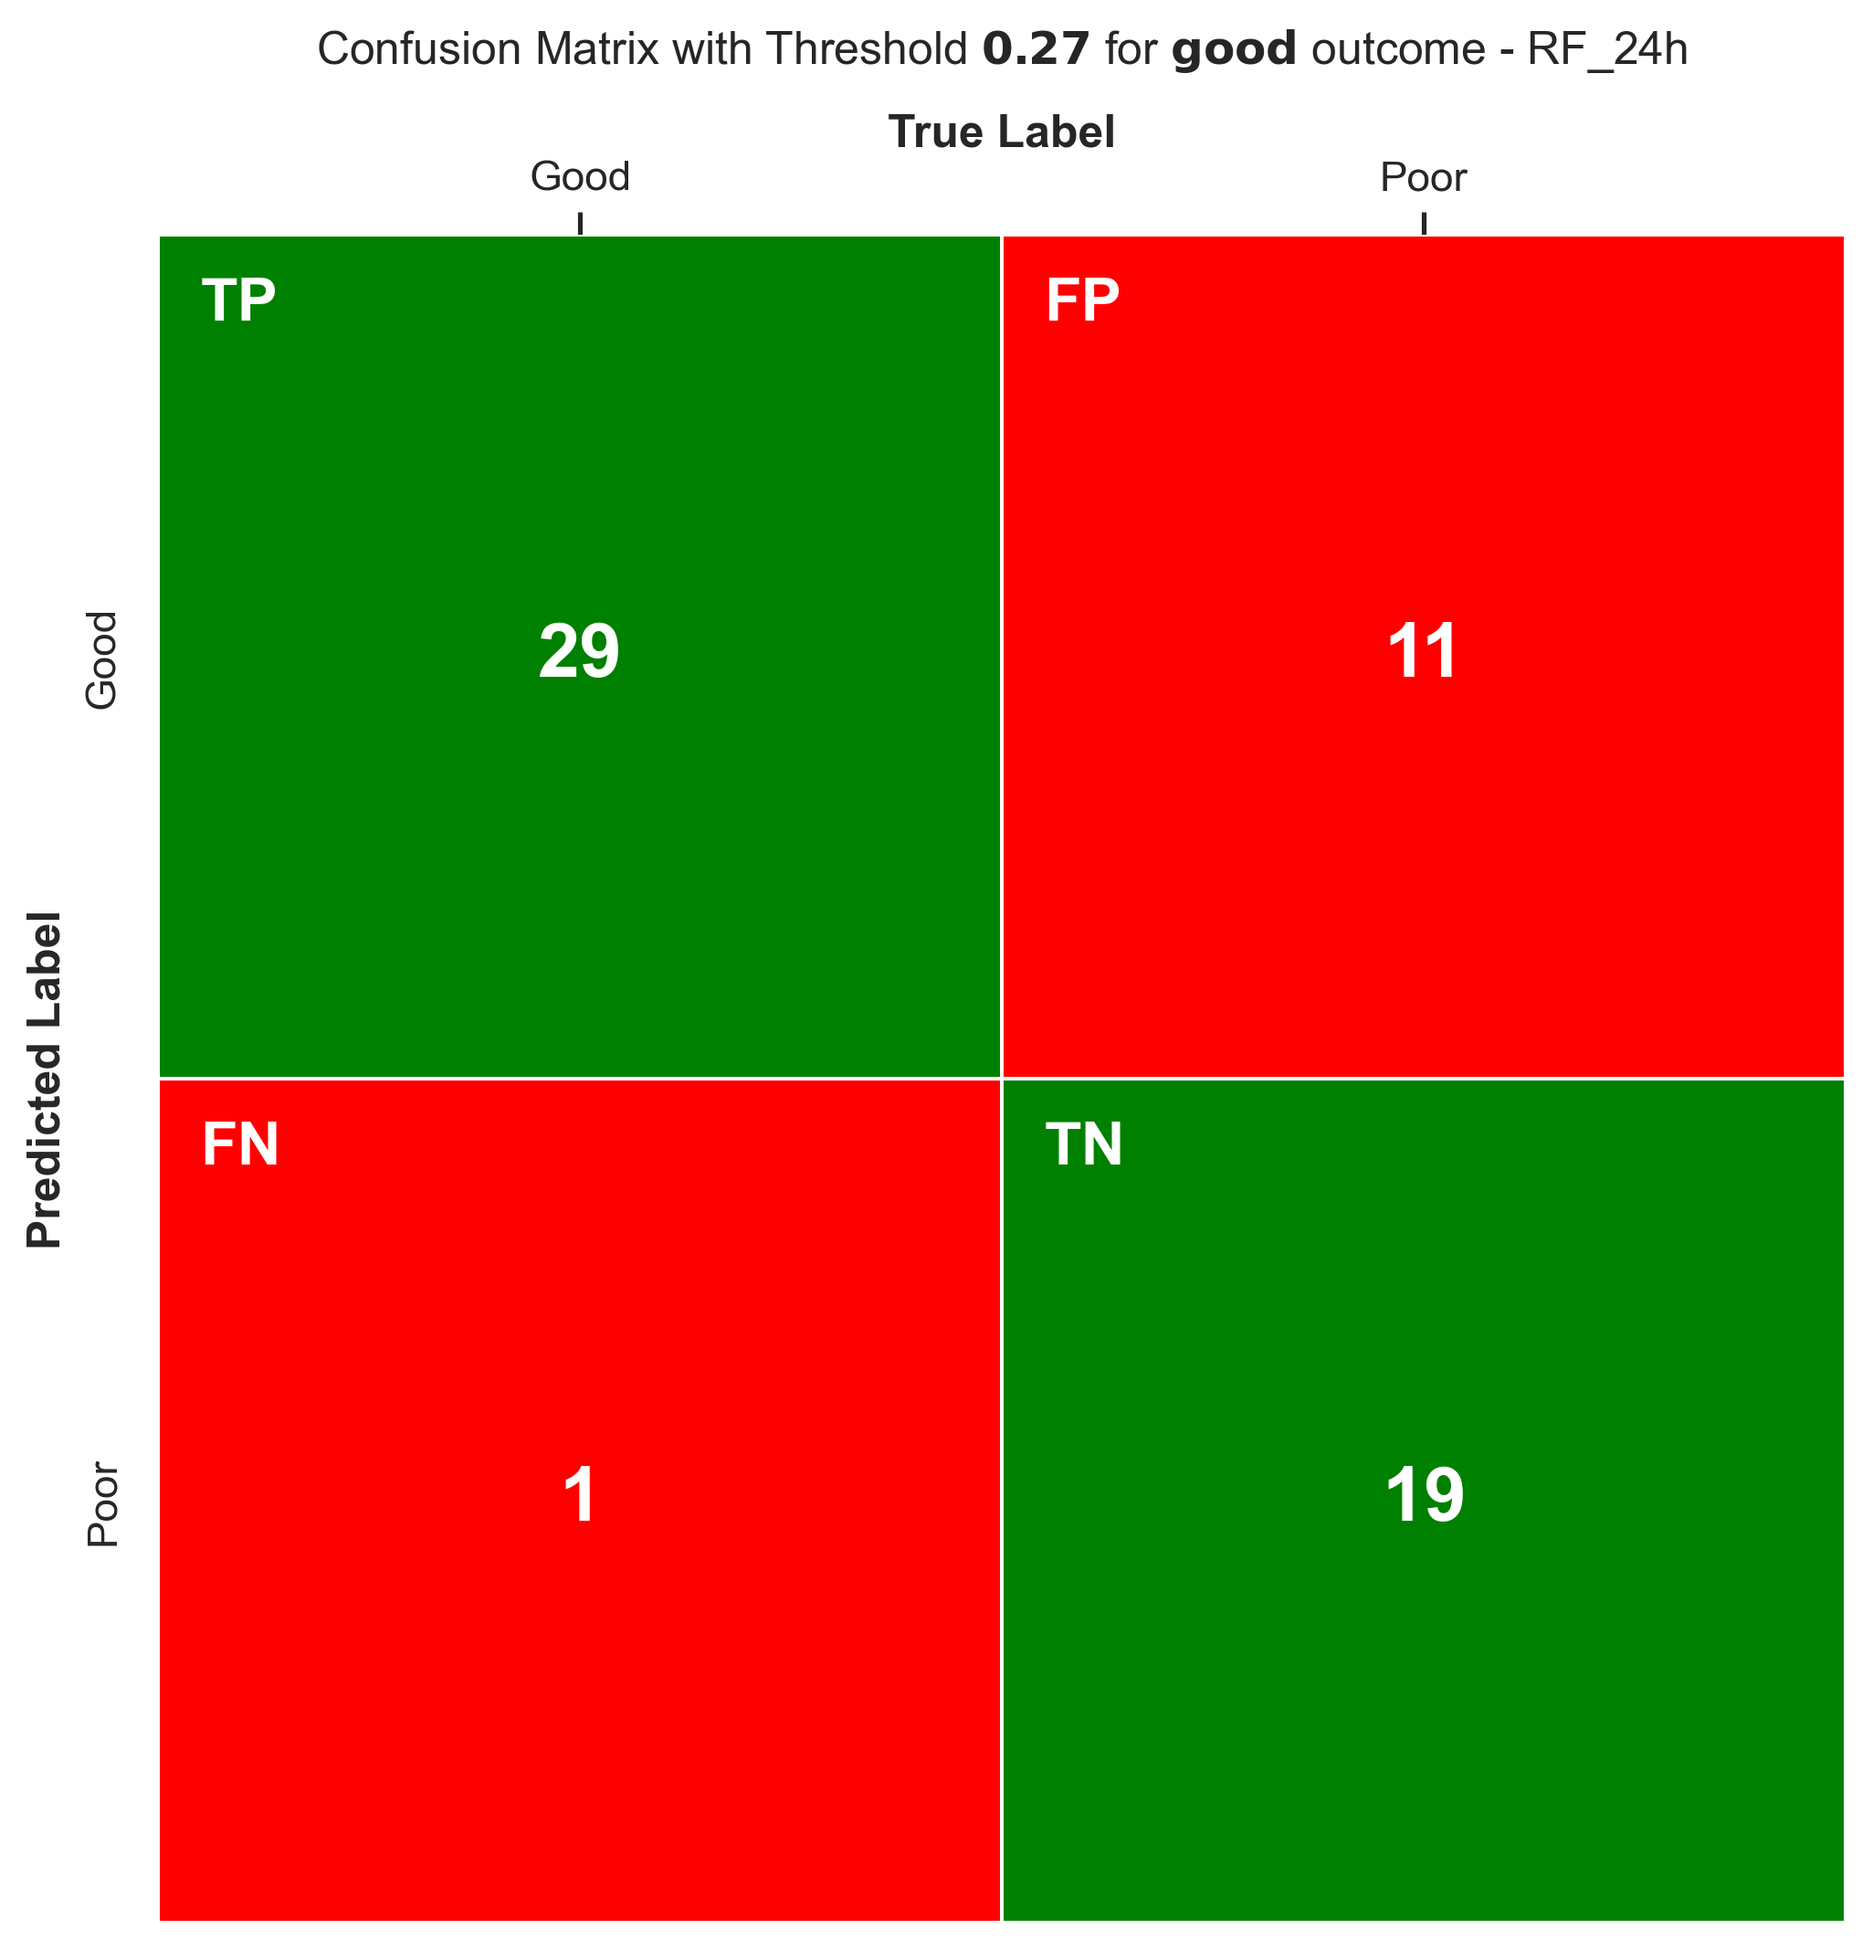
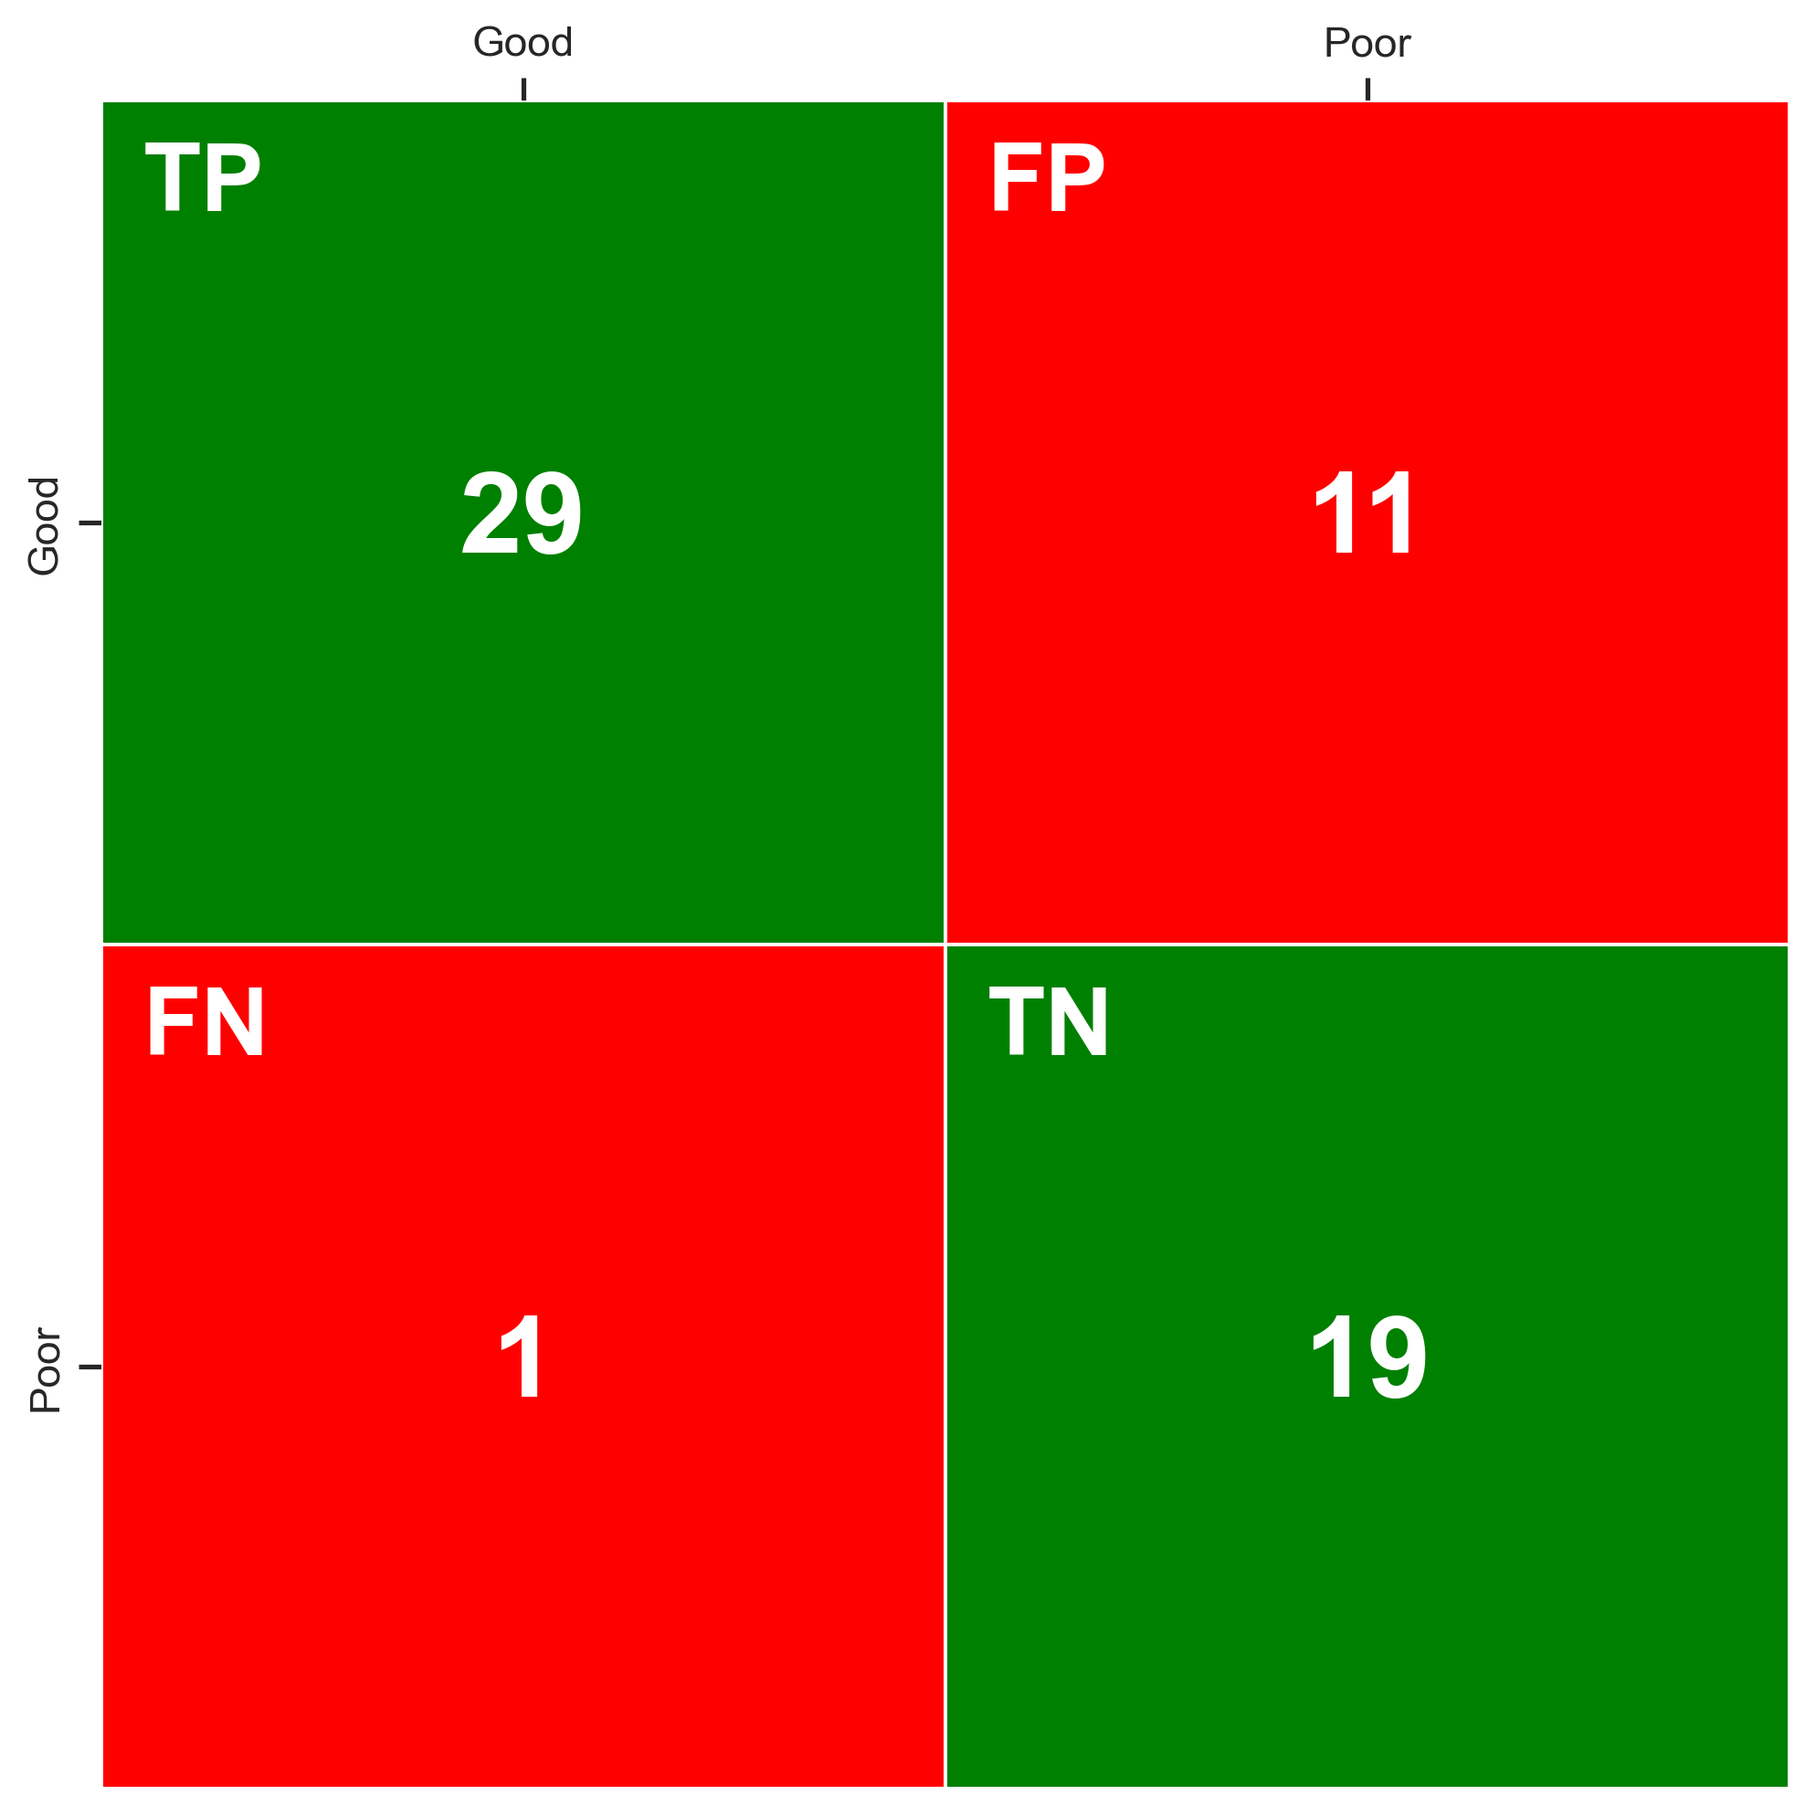
cm

diff --git a/Utils/analysis.py b/Utils/analysis.py
@@ -88,11 +88,15 @@ class Analysis:
         plt.figure(figsize=(8, 8))
         ax = sns.heatmap(color_indices, annot=cm, fmt="d", linewidths=0.5, square=True,
                         xticklabels=labels, yticklabels=labels, cbar=False,
-                        annot_kws={"size": 20, "weight": "bold"}, cmap=custom_cmap,
+                        annot_kws={"size": 30, "weight": "bold"}, cmap=custom_cmap,
                         vmin=0, vmax=len(colors)-1)
 
         ax.xaxis.set_label_position('top')
         ax.xaxis.tick_top()
+        #ax.set_xticklabels(ax.get_xticklabels(), rotation=0, ha='center', va='top', fontsize=12, fontweight='bold')
+        ax.yaxis.set_label_position('left')
+        ax.yaxis.tick_left()
+        #ax.set_yticklabels(ax.get_yticklabels(), rotation=0, ha='right', va='center', fontsize=12, fontweight='bold')
 
         for i in range(cm.shape[0]):
                     for j in range(cm.shape[1]):
@@ -100,13 +104,13 @@ class Analysis:
                                 ha='left',
                                 va='top',
                                 color='white',
-                                fontsize=16,
+                                fontsize=25,
                                 fontweight='bold')
 
-        plt.xlabel("True Label", fontsize=12, fontweight='bold')
-        plt.ylabel("Predicted Label", fontsize=12, fontweight='bold')
+        #plt.xlabel("True Label", fontsize=12, fontweight='bold')
+        #plt.ylabel("Predicted Label", fontsize=12, fontweight='bold')
         title_text = f"Confusion Matrix with Threshold $\\mathbf{{{thr:.2f}}}$ for $\\mathbf{{{outcome}}}$ outcome - {MODEL_NAME}"
-        plt.title(title_text, pad=45, fontsize=12)
+        #plt.title(title_text, pad=45, fontsize=12)
 
         cm_path = os.path.join(OUTPUT_PATH, f"cm_with_thr_{thr:.2f}_{MODEL_NAME}.png")
         plt.savefig(cm_path, dpi=300, bbox_inches="tight")

diff --git a/Utils/config.py b/Utils/config.py
@@ -5,7 +5,7 @@ import torch
 # Training configuration
 # -----------------------------------------
 
-MODEL = '1' # '1' for 12h model, '2' for 24h model
+MODEL = '2' # '1' for 12h model, '2' for 24h model
 if MODEL == '1':
     FILES_USED = '1'
     MODEL_NAME = "RF_12h"
